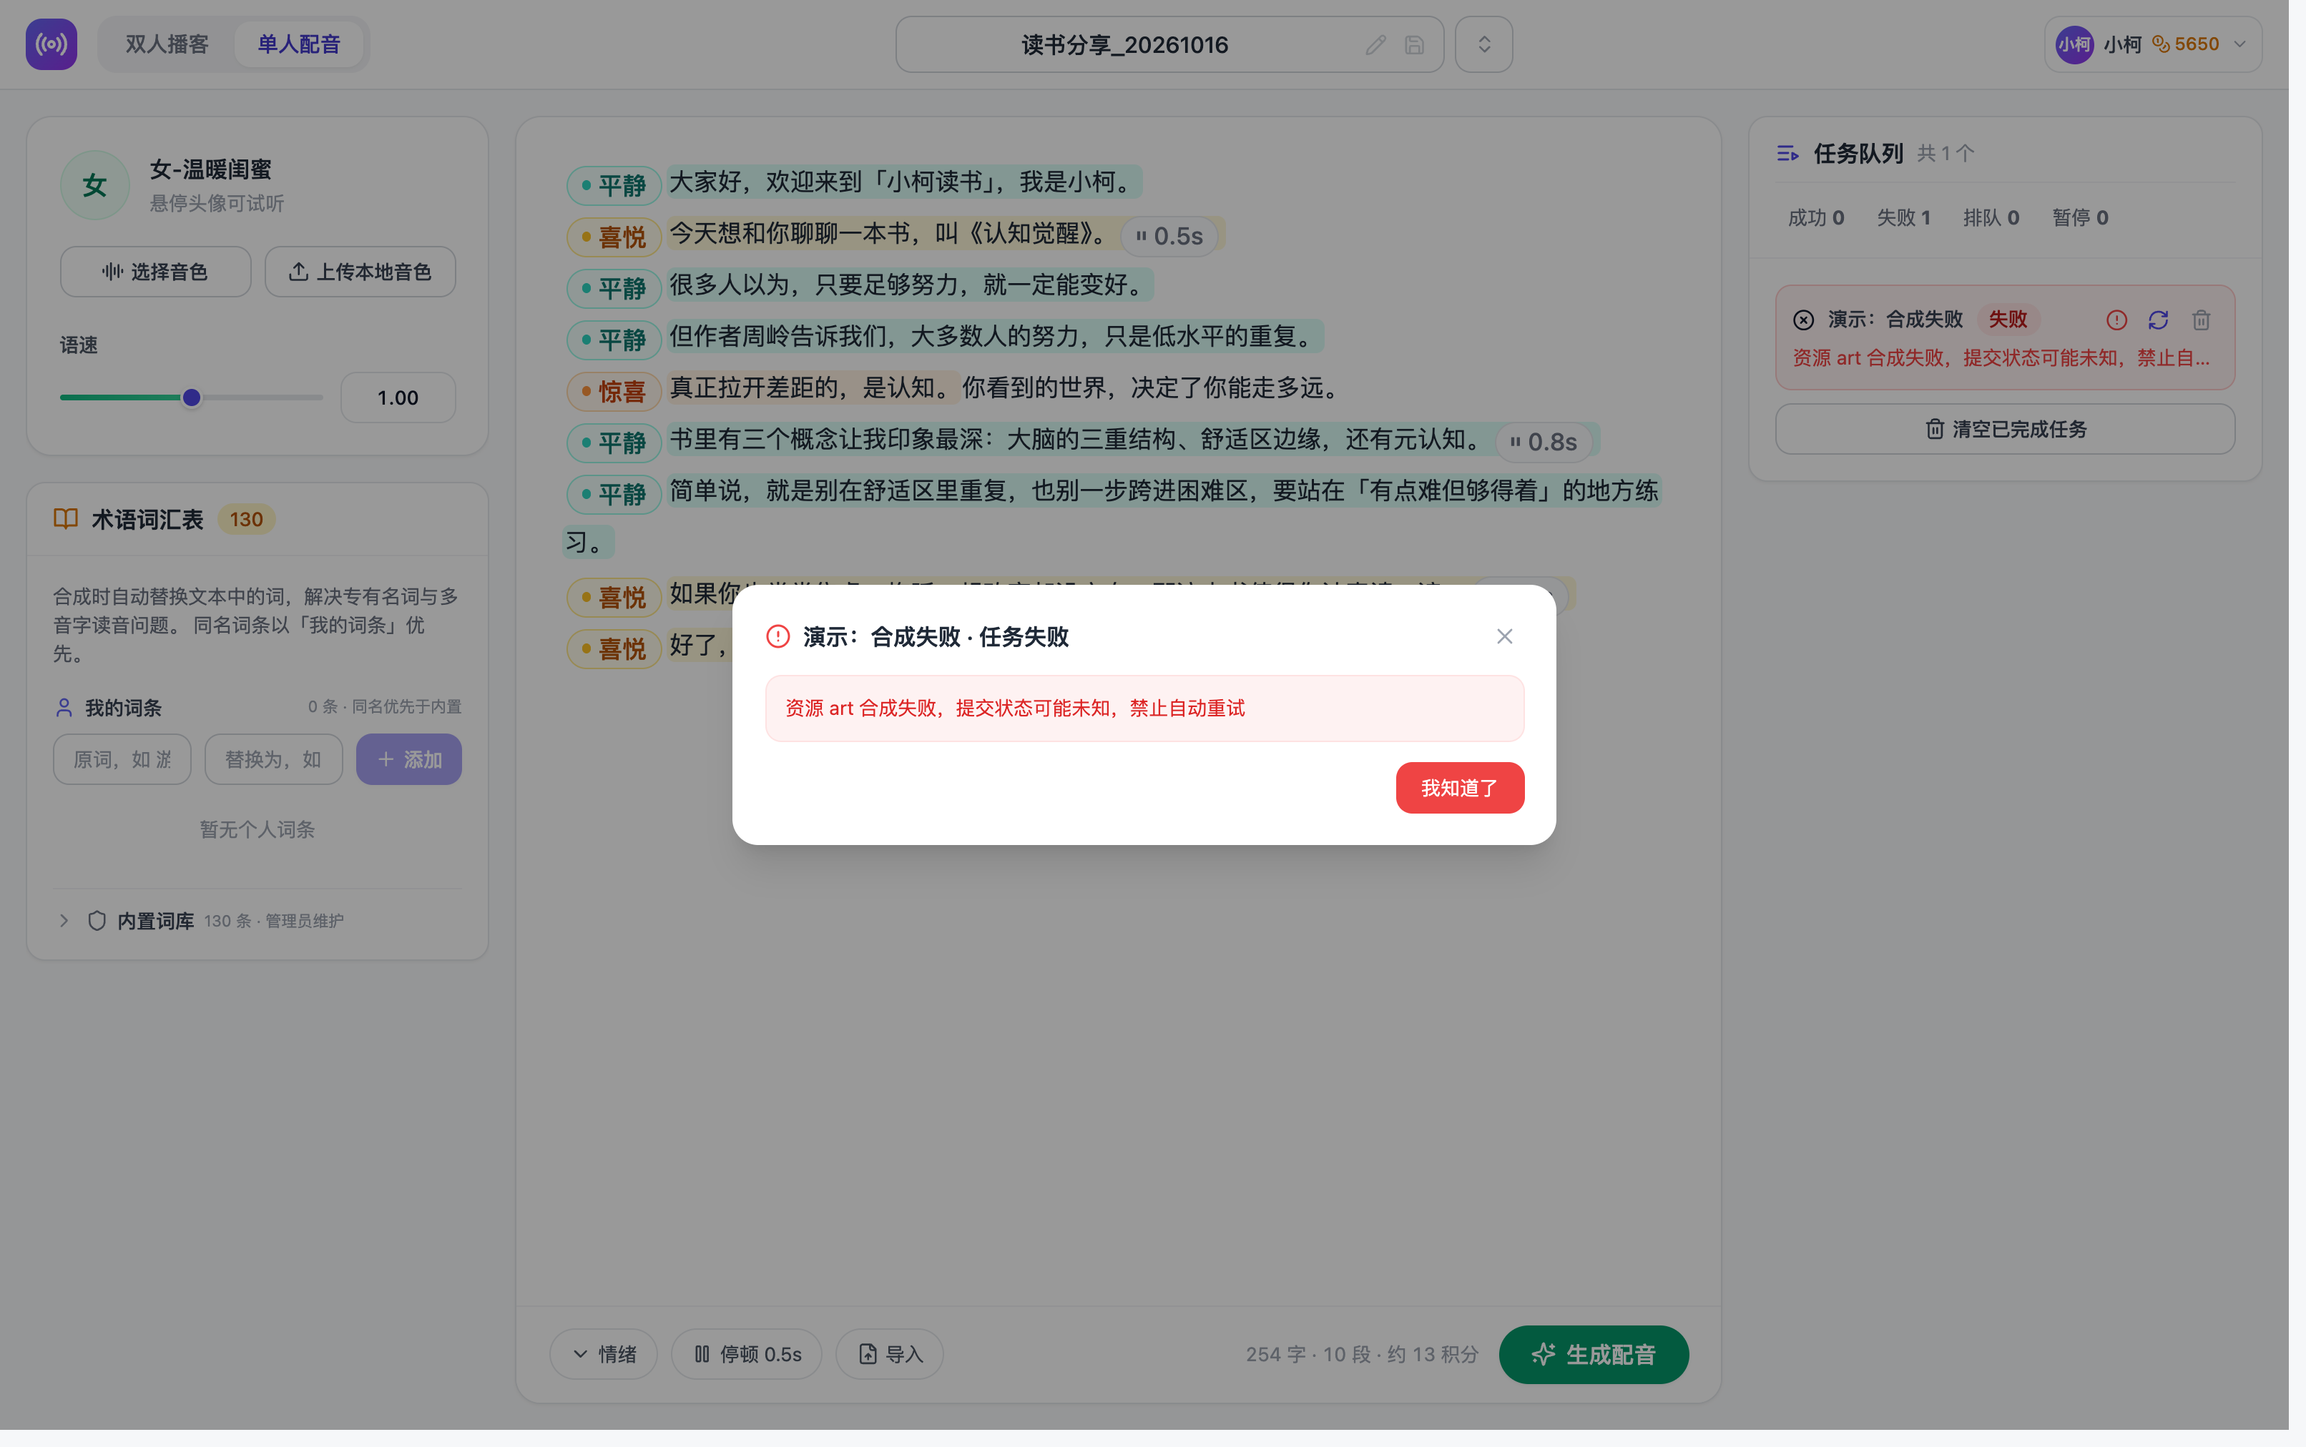
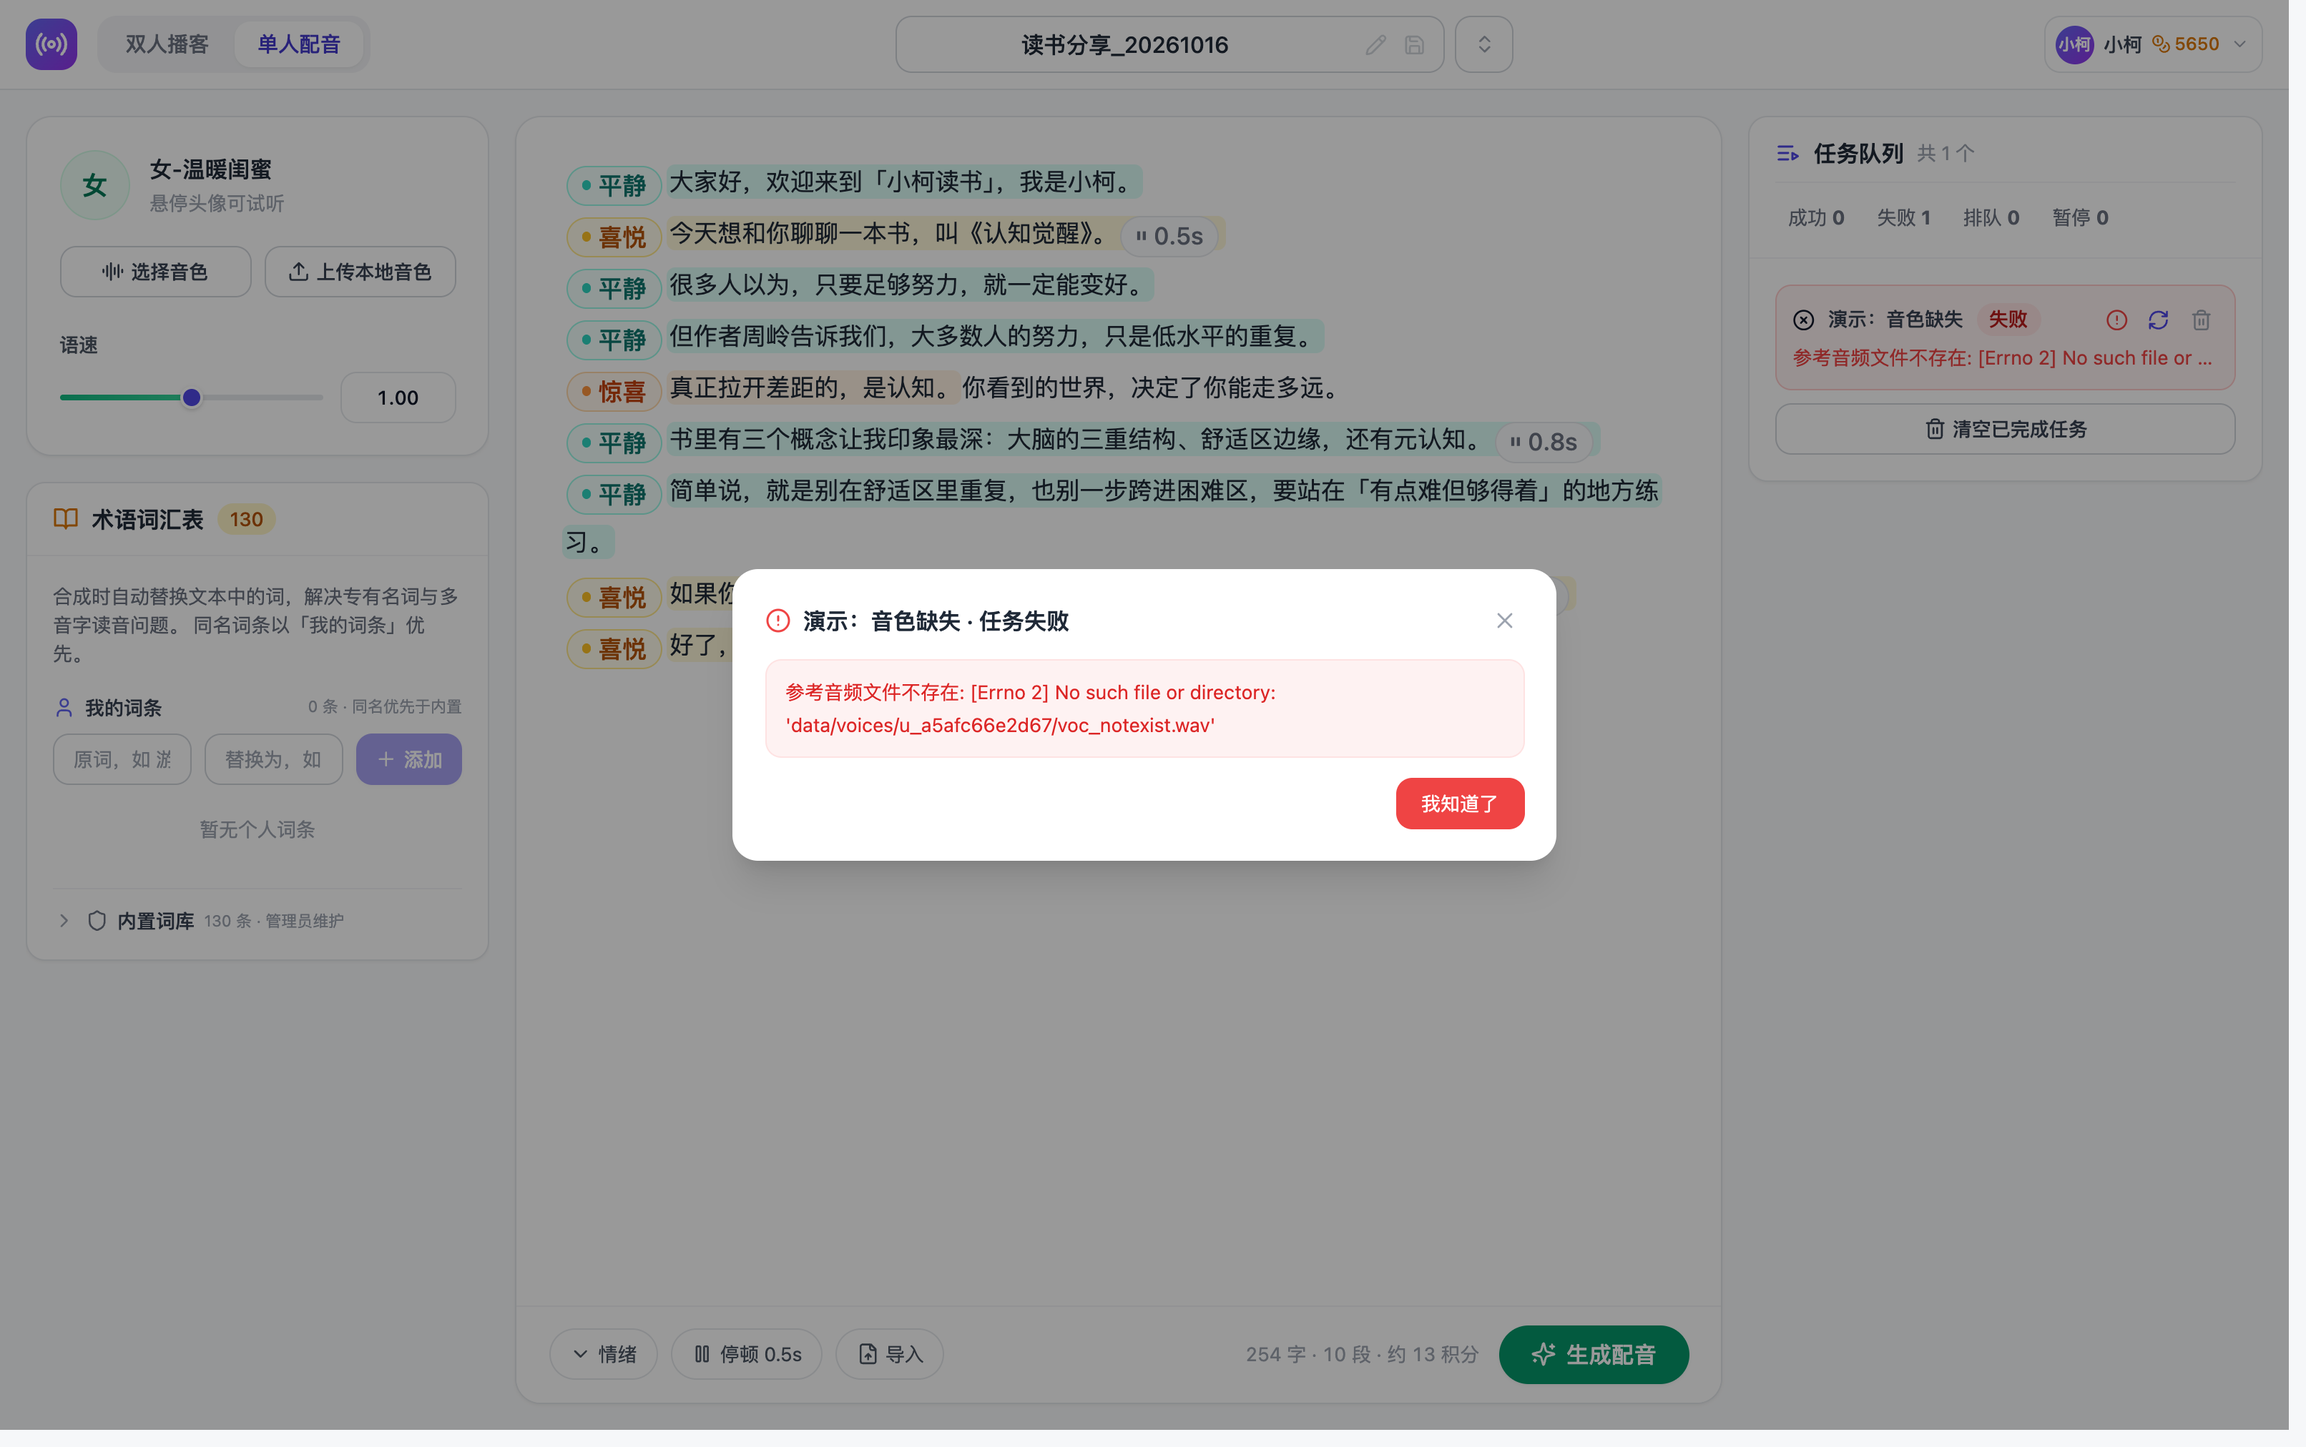
docs(docs): 报错表与失败截图跟上一笔引擎修复对齐
上一条提交把「参考音频缺失」的报错从「资源 xx 合成失败」（指错方向）改成了
「参考音频文件不存在，请检查任务音色配置」⇒ **文档里那张表和图立刻与事实不符**，
必须同批改掉，否则文档教用户去排一个已经不存在的错。

- `DocsPage.tsx` 报错表两行：①「资源 xx 合成失败」的原因删掉「音色文件丢了」
  （那已经不归它了）；②「参考音频文件不存在」改成「换一个音色立刻就能继续」。
- `24-queue-failed.webp` 重出：任务名「演示：合成失败」→「演示：音色缺失」，
  弹窗里如实显示新报错。
- `shoot.js`：删掉那段「实测报的是资源合成失败，所以任务名保持中性」的注释
  （前提已不存在）；坏音色路径**改用相对路径** —— 绝对路径会把本机 home 目录
  印进对外可见的文档截图里（旧图里就是 `/Users/zhangjianwen/...`）。
- `outputs/verify-input-error-live.js`：新增的真实场景取证（纯 fetch，连提 3 条
  同一份坏音色，这是区分新旧行为的最小可观测实验）。
- `命令大全.md` §5.3：新增「输入侧错误的真实行为取证」+ 代码落点表。
- 验收报告刷新：`/docs` 13/13（截图为 1600 宽真页面）。

Changed region(s): [[0.3102, 0.3735, 0.6824, 0.5292], [0.3102, 0.498, 0.6824, 0.6225], [0.7754, 0.2179, 0.9305, 0.249]]

diff --git a/outputs/verify-input-error-live.js b/outputs/verify-input-error-live.js
@@ -1,0 +1,126 @@
+/**
+ * 「参考音频缺失」这一真实场景的**线上行为取证**（沙箱 :3002，纯 fetch，不用浏览器）。
+ *
+ * 验的是 2026-10-16 那笔修复的真实效果 —— 单测覆盖了代码路径，但「真跑起来是什么文案、
+ * 会不会连累后续任务」只能在这里看到：
+ *
+ *   修前：第 1 条报「资源 art 合成失败，提交状态可能未知」（指错方向），
+ *         且该资源被冷却 120s ⇒ 之后所有任务报「所有 TTS 资源均处于冷却中」
+ *         （当天实测：6 条任务全灭，见 .workbuddy/memory/2026-10-16.md）。
+ *   修后：每条都报「参考音频文件不存在，请检查任务音色配置」，且互不连累。
+ *
+ * 为什么用「同一个坏音色连提 3 条」：这正是区分新旧行为的**最小可观测实验** ——
+ * 旧行为在第 1 条之后就把资源冷却掉了，第 2、3 条必然换一种报错。
+ *
+ * 用法（沙箱后端需已在 :3002 运行）：
+ *   NODE_PATH=<node 沙箱>/node_modules <node> outputs/verify-input-error-live.js
+ * 产物：outputs/<日期>-参考音频缺失-线上取证.json
+ */
+const fs = require('fs');
+
+const API = 'http://127.0.0.1:3002';
+const TOKEN = 'Fv8y6-kRXgR9l-rfpC_1RBAUyTHXng-v-3mHoBycMpw';
+const SANDBOX = '/Users/zhangjianwen/Documents/Kingman/workbuddy/index-tts/outputs/docs-sandbox';
+// 刻意用**不存在**的参考音频路径：模拟「音色条目还在、磁盘上的文件没了」。
+// 用相对路径而不是沙箱绝对路径：绝对路径会把本机 home 目录印进报错里
+// （这个报错会出现在产品文档的截图上），相对路径更像产品内部路径。
+const BAD_VOICE = 'data/voices/u_a5afc66e2d67/voc_notexist_live.wav';
+const OUT = process.argv[2] || 'outputs/2026-10-16-参考音频缺失-线上取证.json';
+
+const sleep = ms => new Promise(r => setTimeout(r, ms));
+
+function api(pathname, { method = 'GET', body } = {}) {
+  return fetch(API + pathname, {
+    method,
+    headers: { 'Content-Type': 'application/json', Authorization: `Bearer ${TOKEN}` },
+    body: body ? JSON.stringify(body) : undefined,
+  }).then(async r => {
+    const txt = await r.text();
+    try { return JSON.parse(txt); } catch { return { raw: txt, status: r.status }; }
+  });
+}
+
+function submit(name) {
+  return api('/api/queue/submit', {
+    method: 'POST',
+    body: {
+      project_name: name, kind: 'mono',
+      lines: [{ speaker: 'A', text: '大家好，欢迎来到小柯读书。', emotion: null }],
+      voices: { A: BAD_VOICE },
+      params: { speed: 1.0, speaker_speeds: { A: 1.0 } },
+      glossary_enabled: true,
+    },
+  });
+}
+
+async function listTasks() {
+  const r = await api('/api/queue?kind=mono&terminal_limit=20');
+  return r.tasks || [];
+}
+
+const TERMINAL = new Set(['success', 'failed', 'interrupted', 'cancelled']);
+
+async function main() {
+  const results = [];
+  const check = (name, pass, detail) => {
+    results.push({ name, pass: !!pass, detail });
+    console.log(`${pass ? '✓' : '✗'} ${name}  ${JSON.stringify(detail)}`);
+    return !!pass;
+  };
+
+  // 清空队列，保证下面的观测不受历史任务干扰
+  await api('/api/queue?kind=mono', { method: 'DELETE' });
+  await sleep(800);
+  check('前置：队列已清空', (await listTasks()).length === 0, (await listTasks()).length);
+
+  const names = ['输入侧错误实测 ①', '输入侧错误实测 ②', '输入侧错误实测 ③'];
+  for (const n of names) await submit(n);
+
+  // 等三条都到终态（都是「提交前就失败」，很快）
+  let tasks = [];
+  for (let i = 0; i < 40; i++) {
+    await sleep(1000);
+    tasks = await listTasks();
+    const mine = tasks.filter(t => names.includes(t.project_name));
+    if (mine.length === 3 && mine.every(t => TERMINAL.has(t.status))) break;
+  }
+
+  const mine = names.map(n => tasks.find(t => t.project_name === n)).filter(Boolean);
+  console.log('\n项目名                 状态      message                          error');
+  for (const t of mine) {
+    console.log(`${(t.project_name || '').padEnd(22)} ${String(t.status).padEnd(8)} ${String(t.message || '').padEnd(32)} ${String(t.error || '').slice(0, 80)}`);
+  }
+  console.log('');
+
+  check('三条任务都进入终态', mine.length === 3 && mine.every(t => TERMINAL.has(t.status)),
+        mine.map(t => t.status));
+  check('三条任务的 message 都点明「参考音频文件不存在」',
+        mine.every(t => t.message === '参考音频文件不存在，请检查任务音色配置'),
+        mine.map(t => t.message));
+  check('三条任务的 error 都带上原始路径（便于定位）',
+        mine.every(t => (t.error || '').includes(BAD_VOICE)),
+        mine.map(t => String(t.error || '').slice(0, 60)));
+  check('没有任何一条报「资源 xx 合成失败」（修前的指错方向症状）',
+        mine.every(t => !String(t.error || '').includes('合成失败')),
+        mine.filter(t => String(t.error || '').includes('合成失败')).length);
+  check('第 2、3 条没有变成「所有 TTS 资源均处于冷却中」（修前会连累）',
+        mine.every(t => !String(t.error || '').includes('冷却中')),
+        mine.filter(t => String(t.error || '').includes('冷却中')).length);
+
+  fs.writeFileSync(OUT, JSON.stringify({
+    when: new Date().toISOString(),
+    bad_voice: BAD_VOICE,
+    tasks: mine.map(t => ({
+      project_name: t.project_name, status: t.status,
+      message: t.message, error: t.error,
+    })),
+    results, failed: results.filter(r => !r.pass).map(r => r.name),
+  }, null, 2), 'utf8');
+
+  const failed = results.filter(r => !r.pass).length;
+  console.log(`\n===== ${results.length - failed}/${results.length} 通过 =====`);
+  console.log('产物：', OUT);
+  process.exit(failed ? 1 : 0);
+}
+
+main().catch(e => { console.error('失败：', e); process.exit(1); });

diff --git a/outputs/docs-shots/shoot.js b/outputs/docs-shots/shoot.js
@@ -26,6 +26,10 @@ const TOKEN = 'Fv8y6-kRXgR9l-rfpC_1RBAUyTHXng-v-3mHoBycMpw';
 const V_PRESET_W = `${SANDBOX}/data/preset-voices/女-温暖闺蜜.mp3`;
 const V_PRESET_M = `${SANDBOX}/data/preset-voices/男-不羁青年.mp3`;
 const V_MINE = `${SANDBOX}/data/voices/u_a5afc66e2d67/voc_dcf77a73d20c.mp3`;
+// 「不存在的参考音频」：**刻意用相对路径**，别用 SANDBOX 绝对路径 ——
+// 绝对路径会把本机 home 目录（/Users/<me>/...）印进对外可见的报错截图里，
+// 而相对路径的报错是 `data/voices/<user_id>/<voice_id>.wav`，像产品内部路径。
+const V_MISSING = 'data/voices/u_a5afc66e2d67/voc_notexist.wav';
 
 // ─── 演示内容 ──────────────────────────────────────────────
 const MONO_TEXT = [
@@ -545,10 +549,11 @@ S['queue-failed'] = async (s) => {
   await clearQueue('mono');
   await sleep(500);
   const page = await s.open({ path: '/dubbing', mono: monoDraft(), wait: 2500 });
-  // 用一个不存在的音色路径 → 必然失败
-  // ⚠ 实测此时报的是「资源 xxx 合成失败…」而不是「音色文件不存在」（见 memory 记录），
-  //    所以任务名保持中性，别写「音色缺失」以免与报错不符
-  await submitMono('演示：合成失败', MONO_TEXT.split('\n').slice(0, 2).join('\n'), `${SANDBOX}/data/voices/u_a5afc66e2d67/voc_notexist.wav`);
+  // 用一个不存在的音色路径 → 必然失败，且**提交前**就失败（不发请求、不计费）
+  // ✅ 2026-10-16 修掉池门面的异常包装后，这里如实报「参考音频文件不存在，请检查任务音色配置」
+  //    （修前被包成「资源 xxx 合成失败，提交状态可能未知」，指错方向；取证见
+  //     outputs/verify-input-error-live.js 与 .workbuddy/memory/2026-10-16.md）
+  await submitMono('演示：音色缺失', MONO_TEXT.split('\n').slice(0, 2).join('\n'), V_MISSING);
   // ⚠ 这条任务是「瞬败」的，靠 UI 的自动弹窗抓不稳 ⇒ 直接点任务卡上的 ⚠（title=查看报错详情）
   let hit = false;
   for (let i = 0; i < 30; i++) {

diff --git a/webui-frontend/src/pages/DocsPage.tsx b/webui-frontend/src/pages/DocsPage.tsx
@@ -675,9 +675,9 @@ A:今天咱们聊一个很现实的话题。`}</Code>
             <Table
               head={["报错里出现", "通常是什么原因", "怎么处理"]}
               rows={[
-                ["资源 xxx 合成失败", "上游合成资源临时出故障（最常见的一种），也可能是这篇用到的音色文件丢了", "先点 ↻ 重做一次；连续失败就换一个音色，或把参考音频重新上传"],
+                ["资源 xxx 合成失败", "上游那台合成机 / 那个平台临时出故障", "先点 ↻ 重做一次；连续失败就先换个音色或等几分钟，不用改文稿"],
                 ["所有 TTS 资源均处于冷却中", "刚刚连续失败了几次，系统把出问题的资源临时隔离了几分钟", "等 1~2 分钟再点 ↻ 重做，不用改文稿"],
-                ["参考音频文件不存在", "用到的音色被删掉了，或者参考音频没同步到合成机", "回到左栏重新选一个音色；如果是自己上传的音色，重新上传一次"],
+                ["参考音频文件不存在", "这个音色的参考音频丢了（自己上传的音色被删掉、或文件损坏最常见）", "换一个音色立刻就能继续；如果是自己上传的，重新上传一次"],
                 ["连接中断", "网络抖动，或合成服务刚好在重启", "点 ↻ 重新提交即可（已扣的积分会先退回）"],
               ]}
             />

diff --git a/命令大全.md b/命令大全.md
@@ -788,6 +788,40 @@ cd webui-backend && env -u HTTP_PROXY -u HTTPS_PROXY -u http_proxy -u https_prox
 `public/` 下若有真实的 `docs/` 目录，请求 `/docs` 会命中该目录（无 index.html）→ **403**，
 SPA 路由永远进不来。改名后 `/docs` → 200。
 
+### 5.3 输入侧错误（参考音频缺失）的真实行为取证 🆕
+
+判据：**参考音频缺失 ≠ 资源故障**。这两类错误必须分开——混在一起的代价是
+「报错指错方向」+「一份坏音色把整台资源冷却，连累之后所有任务」。
+
+```bash
+cd ~/Documents/Kingman/workbuddy/index-tts/podcast-webui
+
+# 单测（含对照：真资源故障仍包装 + 仍隔离；含端到端任务文案）
+$PY webui-backend/tests/test_input_side_error.py
+
+# 真实场景取证（需沙箱后端在 :3002 跑；纯 fetch，不用浏览器）
+#   同一份「不存在的参考音频」**连提 3 条** —— 这是区分新旧行为的最小可观测实验：
+#   旧行为第 1 条就冷却了资源，第 2/3 条必变成「所有 TTS 资源均处于冷却中」。
+NODE_PATH=$NODE_WS/node_modules $NODE outputs/verify-input-error-live.js
+# 产物：outputs/<日期>-参考音频缺失-线上取证.json
+```
+
+**代码落点**（改这一类行为只碰这几处）：
+
+| 文件 | 作用 |
+|---|---|
+| `app/engines/base.py::EngineInputError` | 新异常类；`ENGINE_INPUT_ERRORS = (EngineInputError, FileNotFoundError)` |
+| 同上 `NON_RETRYABLE_ERRORS` | 「不重试」的唯一名单（可能已计费 + 输入侧 + 已取消），**别在 runner 里另写一份** |
+| `app/engines/voice_sync.py::VoiceUnavailable` | 改为继承 `EngineInputError`（这样池门面认得出它，且不必反向 import 造成循环） |
+| `EnginePoolFacade.synthesize_segment` | 在 `except Exception` **之前**拦 `ENGINE_INPUT_ERRORS`：不冷却、不包装、原样抛 |
+| `mono_runner._NO_RETRY_ERRORS` / `podcast_runner` | 复用同一份名单（runner 的重试判据是「不在名单里就重试」，两份走样过一次） |
+
+🔴 **修这个类型必须同时改重试名单**：池门面一旦不包装，输入侧错误就会天然变成
+「可重试」（runner 是白名单反选），刷「重试 N 个失败段」且必然再失败。
+
+⚠ 取证的报错路径**用相对路径**（`data/voices/...`），别用沙箱绝对路径 ——
+后者的报错会把本机 home 目录印进对外可见的文档截图里。
+
 ---
 
 ## 6. 数据维护
